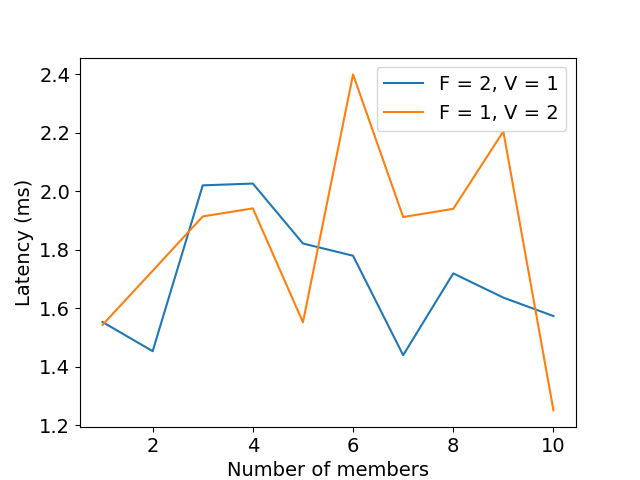
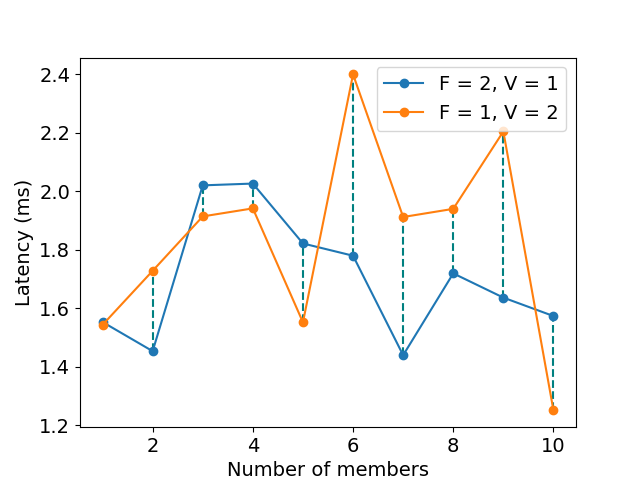
Vagrantfile, readme, scaling test

diff --git a/evaluation/mqtt/plot/scaling.py b/evaluation/mqtt/plot/scaling.py
@@ -26,7 +26,17 @@ plt.rcParams.update({'font.size': FONT_SIZE})
 plt.xlabel('Number of members', fontsize=FONT_SIZE)
 plt.ylabel('Latency (ms)', fontsize=FONT_SIZE)
 for i in range(len(y_axis)):
-    plt.plot(x, float_array(y_axis[i]), label=labels[i])
+    y_axis[i] = float_array(y_axis[i])
+ymin = []
+ymax = []
+for i in range(len(y_axis[0])):
+    ymin.append(min(y_axis[0][i], y_axis[1][i]))
+    ymax.append(max(y_axis[0][i], y_axis[1][i]))
+plt.vlines(x=[1, 2, 3, 4, 5, 6, 7, 8, 9, 10], ymin=ymin, ymax=ymax,
+           colors='teal', ls='--')
+
+for i in range(len(y_axis)):
+    plt.plot(x, y_axis[i], label=labels[i], marker='o')
 plt.legend()
 plt.savefig(f"./graphs/scaling_mqtt.png")
 plt.show()

diff --git a/README.md b/README.md
@@ -1,11 +1,11 @@
-# Smart Firewall
+# Smart firewall for IoT and Smart Home applications
 
-## Environment setup
+## Experimental setup
 
-We use vagrant to automate the installation of the whole project. 
+We use vagrant with the libvirt provider to automate the installation of the whole project. 
 Please refer to the official [documentation](https://www.vagrantup.com/downloads) to install it.
-Note that the provider we used is libvirt, but it is possible to change it with the provider option. 
-You may need to install the plugin for libvirt support. 
+It is possible to use virtualbox, but this will require to allow the range of IPs we used or to change the IPs in the Vagrantfile and in the input file directly. 
+The Vagrantfile is designed to work with Linux distributions, it is possible to make it work on other operating systems but it requires changing the settings of the shared folder.
 You should also be asked to provide root privileges in order to configure the shared folder.
 
 ```sh
@@ -67,7 +67,8 @@ sudo python main.py --input input.json --no-dev
 ```
 
 The firewall can be stopped with a SIGINT (ctrl+c). It also prints some logs, for example when
-a packet that has reached the constraint mapping is accepted or dropped.
+a packet that has reached the constraint mapping is accepted or dropped. Prints are also made 
+to trigger alarms.
 
 ### MQTT
 
